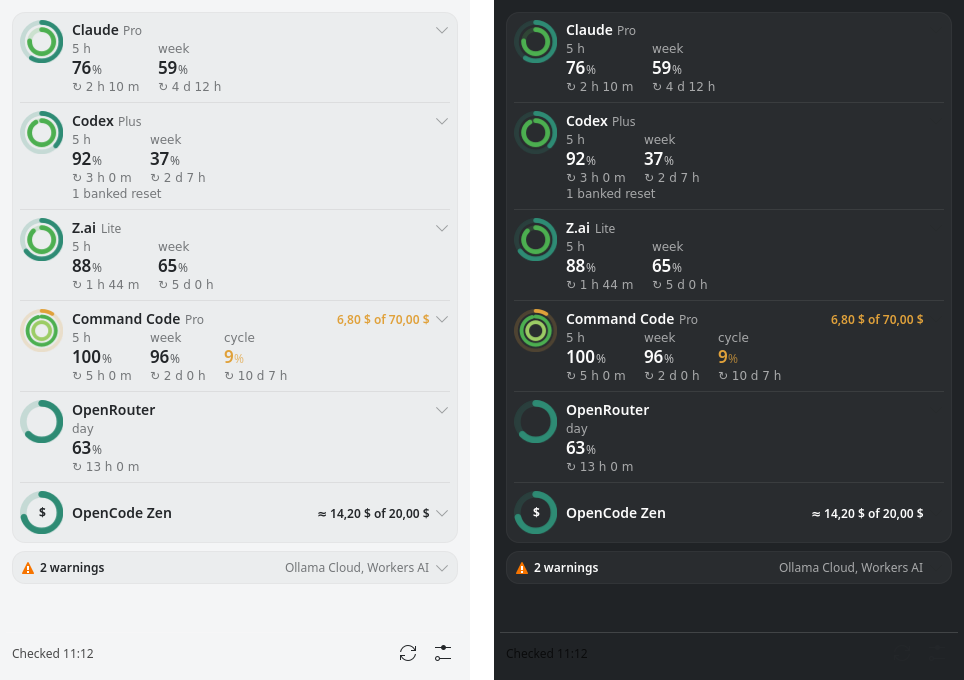
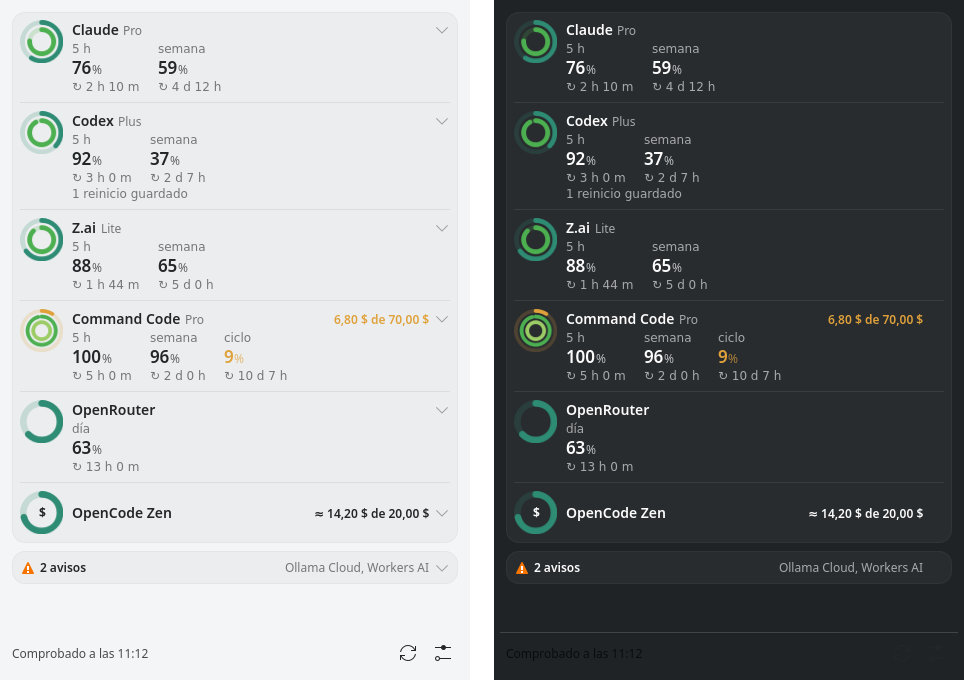
docs(readme): show how the widget looks, and its languages
What: the README's screenshot shows the Spanish interface; a "How it
looks" section adds the unfolded rows, the warnings, the Keys settings page
and the widget's About page; a note says the only translation for now is
Spanish (the widget follows the desktop's language, Spanish or English)
and that the terminal, notifications and hints are in English.

Why: the maintainer asked to show how the program looks and works, and
that it is only translated into Spanish for now. The popup and the Keys
page are rendered with made-up figures; the About page is the
maintainer's own screenshot, which holds no private data.

Tests: none (documentation); make check passes.

Architectural impact: none.

Version impact: docs, no version change.

diff --git a/README.md b/README.md
@@ -22,7 +22,7 @@ works on the maintainer's desktop; packages are built from source until the
 first public release (see [docs/ROADMAP.md](docs/ROADMAP.md)).
 
 <p align="center">
-  <img src="docs/screenshot.png" alt="The Ataecina popup in the KDE Plasma system tray, light and dark (made-up figures)" width="820">
+  <img src="docs/screenshot.png" alt="The Ataecina popup in KDE Plasma, light and dark, in Spanish (made-up figures)" width="820">
 </p>
 
 ## Why
@@ -61,6 +61,35 @@ first public release (see [docs/ROADMAP.md](docs/ROADMAP.md)).
 - **Freshness and fidelity** — every figure knows when it was read and
   whether it was *reported* by the provider, *derived* locally, *observed*
   by a relay or *declared* by you.
+
+## How it looks
+
+The screenshots show the Spanish interface and made-up figures.
+
+<table>
+  <tr>
+    <td width="50%"><img src="docs/screenshots/details.png" alt="Two rows unfolded: every window with a bar of what is left and its countdown, and the money left and spent"></td>
+    <td width="50%"><img src="docs/screenshots/warnings.png" alt="The warnings unfolded: a provider whose answer changed and a rejected key, with their reasons"></td>
+  </tr>
+  <tr>
+    <td><strong>Click a row</strong> to unfold every window — a bar of what is left, the countdown to its rebirth — and the balance, spent and left.</td>
+    <td><strong>Warnings</strong> gather the sources that failed, each with its reason, out of the way of the figures that are right.</td>
+  </tr>
+  <tr>
+    <td><img src="docs/screenshots/keys.png" alt="The Keys settings page: each key with whether it works, and the OpenCode Zen balance"></td>
+    <td><img src="docs/screenshots/about.png" alt="The widget's About page in KDE Plasma: version, website, license and author"></td>
+  </tr>
+  <tr>
+    <td><strong>Keys</strong>, in the widget's settings: which keys work, which were rejected, and a masked dialog to set or replace one; the OpenCode Zen balance is declared here too.</td>
+    <td><strong>About</strong>, in the widget's settings: version, website, license and author, as Plasma shows them.</td>
+  </tr>
+</table>
+
+**Languages.** For now the only translation is Spanish: the Plasma widget
+and its settings follow your desktop's language, Spanish or English (the
+language of the source). The terminal, the desktop notifications and the
+hints the collector writes are in English. Translations are welcome
+([CONTRIBUTING.md](CONTRIBUTING.md)).
 
 ## Supported subscriptions
 
